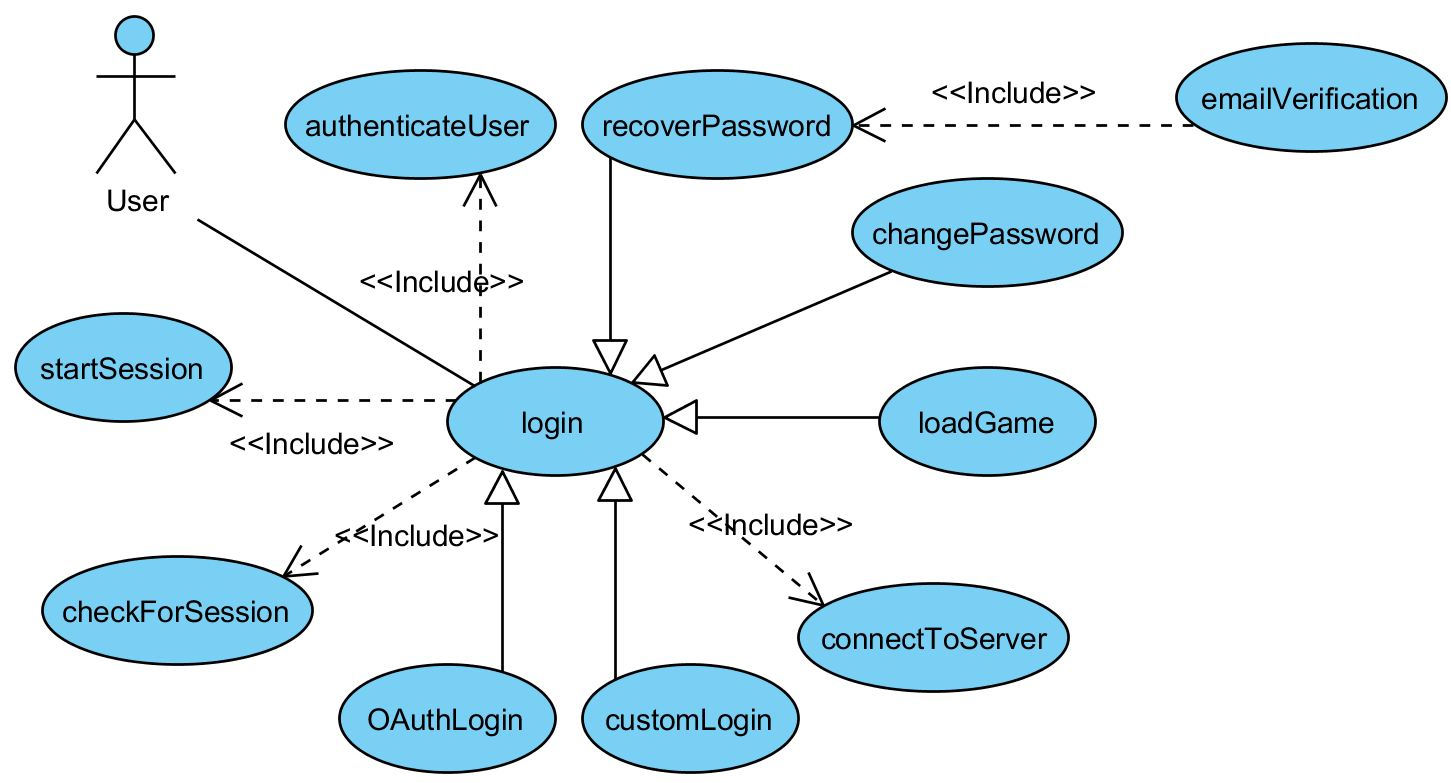
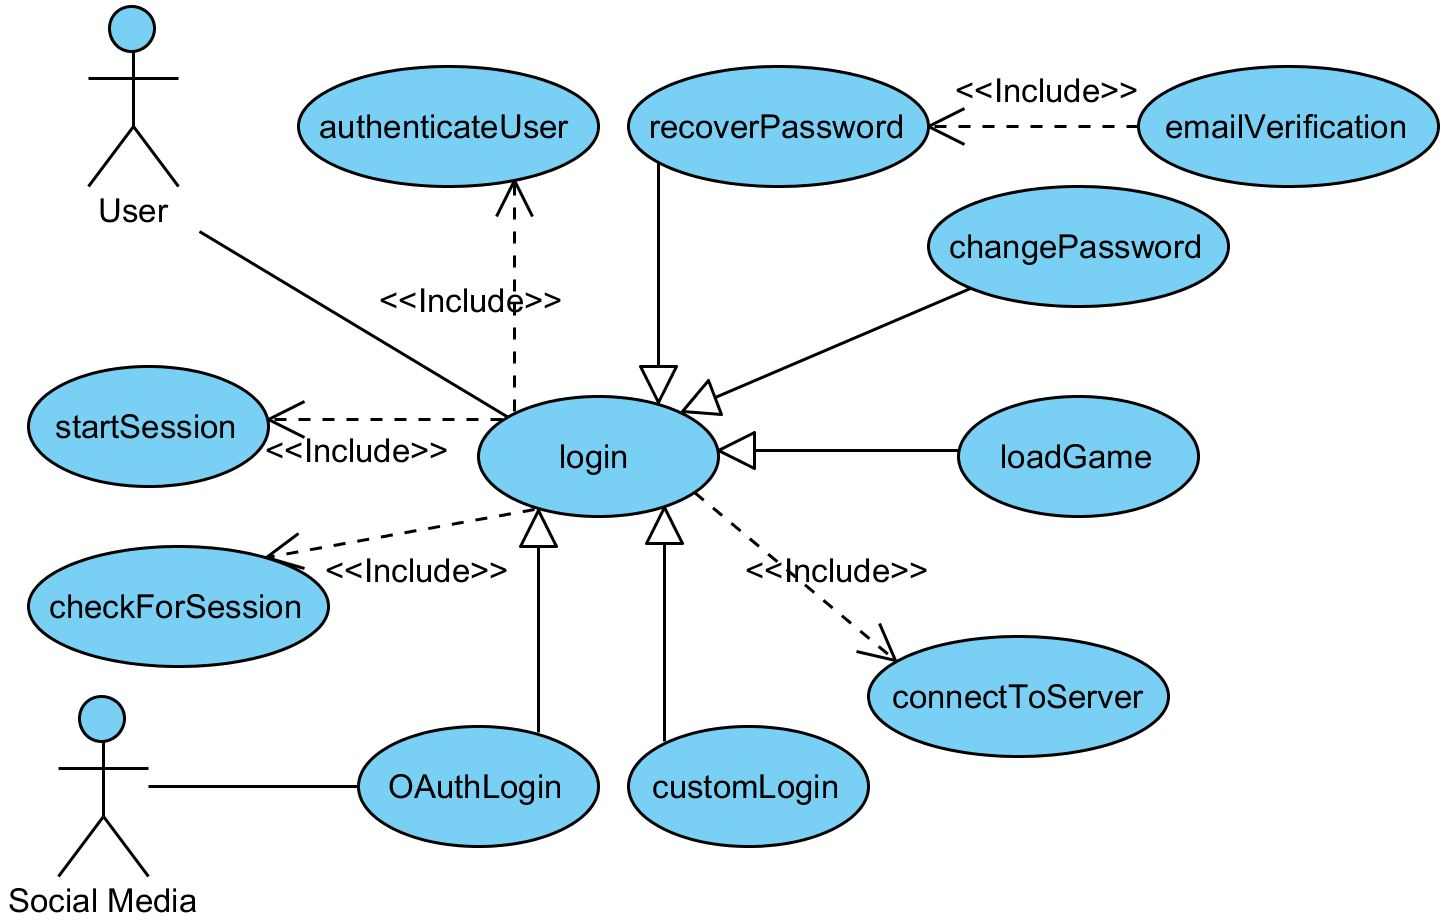
Finished Vision and Scope.tex
Removed download use case from high level use case diagram. Made
correction to the format of the Vision and Scope document. Added the
Social Media actor to the login use case diagram. Added the
limitations/exclusions.

diff --git a/Documentation/Vision and Scope.tex b/Documentation/Vision and Scope.tex
@@ -6,6 +6,7 @@
 \usepackage{hyperref}
 \usepackage{tocloft}
 \usepackage{graphicx}
+\usepackage{float}
 
 \usepackage{setspace, amsmath}
 
@@ -85,7 +86,9 @@
 
 \noindent
 \titlefont Laminin \par
-\epigraph{ XGame - Derivco \\ Vision \& Scope.}%
+\epigraph{Documentation type: Vision \& Scope.\\
+Project name: XGame - Derivco.\\
+Client name: Rodney Pillay.}%
 {\textit{ 23/05/2014 }\\ \textsc{ }}
 \null\vfill
 \vspace*{4cm}
@@ -118,6 +121,9 @@
 			19/05/2014  \> Version 1.0  \> Added Vision									\> Martin Schoeman \\
 			21/05/2014  \> Version 1.0  \> Added High Level Use Case Diagram			\> Martin Schoeman\\
 			22/05/2014  \> Version 1.0  \> Added Sub Level Use Case Diagram				\> Martin Schoeman\\
+			23/05/2014  \> Version 1.0  \> Corrected Page Format						\> Martin Schoeman \\
+			23/05/2014  \> Version 1.0  \> Added Title Page Information					\> Martin Schoeman \\
+			23/05/2014  \> Version 1.0  \> Added Limitations \& Exclusions				\> Martin Schoeman \\
 		\end{tabbing}
 
 	\newpage
@@ -134,43 +140,12 @@
 		
 		\newpage
 		
-		\section*{\colorbox{blue}{\makebox[\textwidth-2\fboxsep][l]{\bfseries\color{white} Vision \& Scope }}} \addcontentsline{toc}{section}{Vision \& Scope}
+		\section*{\colorbox{blue}{\makebox[\textwidth-2\fboxsep][l]{\bfseries\color{white} Vision }}} \addcontentsline{toc}{section}{Vision}
 		\vspace{0.2in}
-		
-		\subsection*{Vision}
-		\addcontentsline{toc}{subsection}{Vision}
-		\vspace{0.1in}
 		
 		The vision of this project is to create a game that supports multiple platforms, for example android devices and windows computers. The game should be connected to a server where game data can be saved and retrieved real time. The user should be able to log in using a custom log in or an OAuth log in that uses social media like Facebook and Twitter. There must also be a live leader board and achievements. It must be able to develop the game in three months. The project must be developed using only open source and freeware technologies.
-
-		
-		\vspace{0.2in}
-		\subsection*{Scope}
-		\addcontentsline{toc}{subsection}{Scope}
-		\vspace{0.1in}
-		
-		
-		\vspace{0.2in}
-		
-		\section*{\colorbox{blue}{\makebox[\textwidth-2\fboxsep][l]{\bfseries\color{white} Limitations \& Exclusions}}} \addcontentsline{toc}{section}{Limitations \& Exclusions}
-		\vspace{0.2in}
-		
-		\subsection*{Limitations}
-		\addcontentsline{toc}{subsection}{Limitations}
-		\vspace{0.1in}
-		
-		
-		\vspace{0.2in}
-		\subsection*{Exclusions}
-		\addcontentsline{toc}{subsection}{Exclusions}
-		\vspace{0.1in}
-		
-		
-		
-		\vspace{0.2in}
-				
-		\newpage		
-		\section*{\colorbox{blue}{\makebox[\textwidth-2\fboxsep][l]{\bfseries\color{white} High-level use case}}} \addcontentsline{toc}{section}{High-level use case}
+					
+		\section*{\colorbox{blue}{\makebox[\textwidth-2\fboxsep][l]{\bfseries\color{white} Scope}}} \addcontentsline{toc}{section}{Scope}
 		
 		\vspace{0.2in}
 		
@@ -184,11 +159,11 @@
 		\vspace{0.2in}
 		
 		\newpage
-		\section*{\colorbox{blue}{\makebox[\textwidth-2\fboxsep][l]{\bfseries\color{white} Sub-level use case}}} \addcontentsline{toc}{section}{Sub-level use case}
+		\section*{\colorbox{blue}{\makebox[\textwidth-2\fboxsep][l]{\bfseries\color{white} Sub-level use case diagrams}}} \addcontentsline{toc}{section}{Sub-level use case diagrams}
 		
 		\vspace{0.2in}
 		
-		\begin{figure}[ht!]
+		\begin{figure}[H]
 		\centering
 		\includegraphics[width=180mm]{login}
 		\caption{Login use case diagram}
@@ -197,7 +172,7 @@
 		
 		\vspace{0.2in}
 		
-		\begin{figure}[ht!]
+		\begin{figure}[H]
 		\centering
 		\includegraphics[width=180mm]{signup}
 		\caption{Sign up use case diagram}
@@ -206,11 +181,20 @@
 		
 		\vspace{0.2in}
 		
-		\begin{figure}[ht!]
+		\begin{figure}[H]
 		\centering
 		\includegraphics[width=180mm]{game_menu}
 		\caption{Game menu use case diagram}
 		\label{overflow}
 		\end{figure}
-
+		
+		\section*{\colorbox{blue}{\makebox[\textwidth-2\fboxsep][l]{\bfseries\color{white} Limitations \& Exclusions}}} \addcontentsline{toc}{section}{Limitations \& Exclusions}
+		\vspace{0.2in}
+		
+		\begin{itemize}
+  		\item Download, we only have to develop the game. We have no responsibility of distribution.
+  		\item Install, we are not responsible for the development of an installer.
+  		\item Compatibility, the game will not necessarily work with all hardware.
+		\end{itemize}		
+		
 \end{document}
